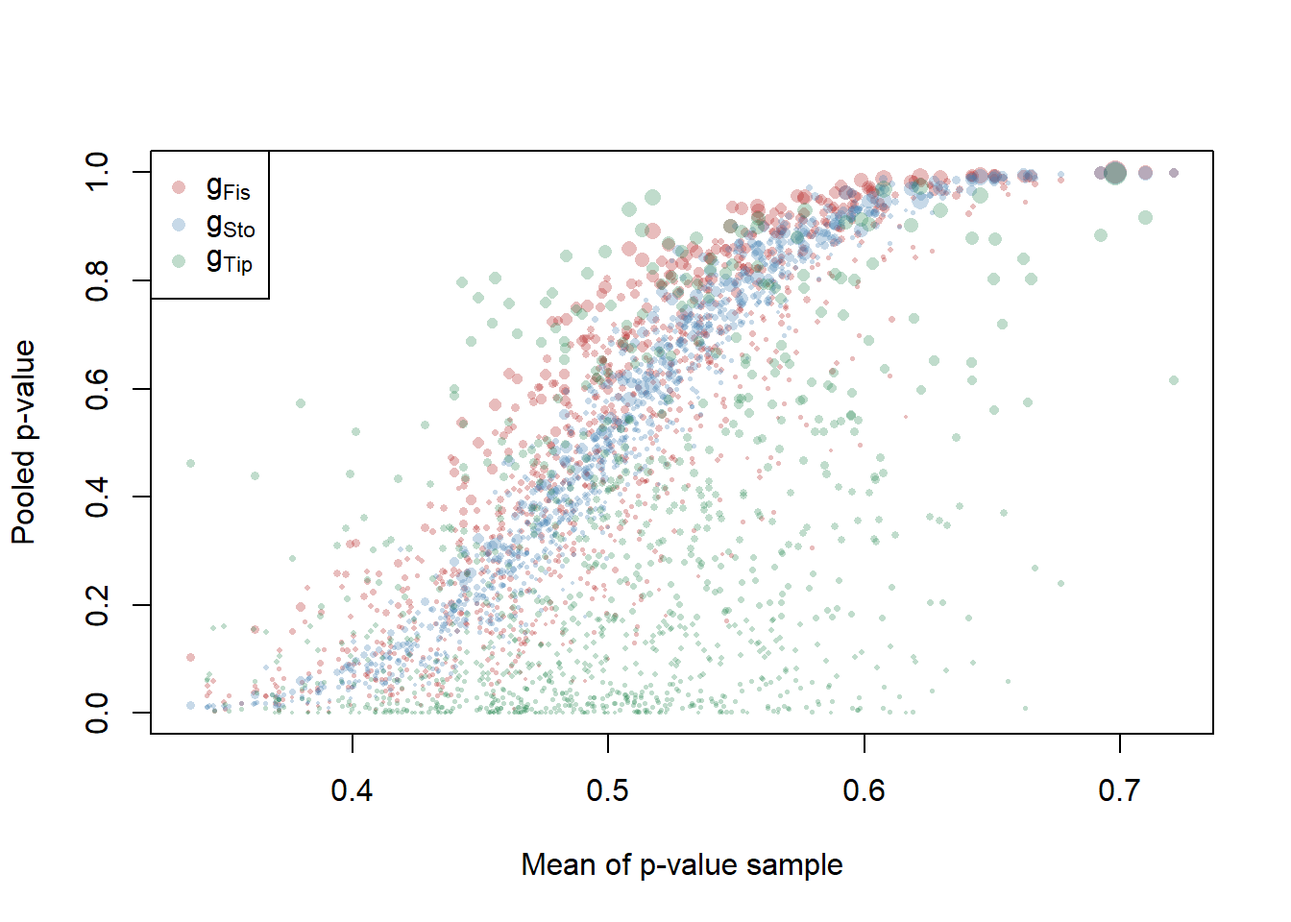
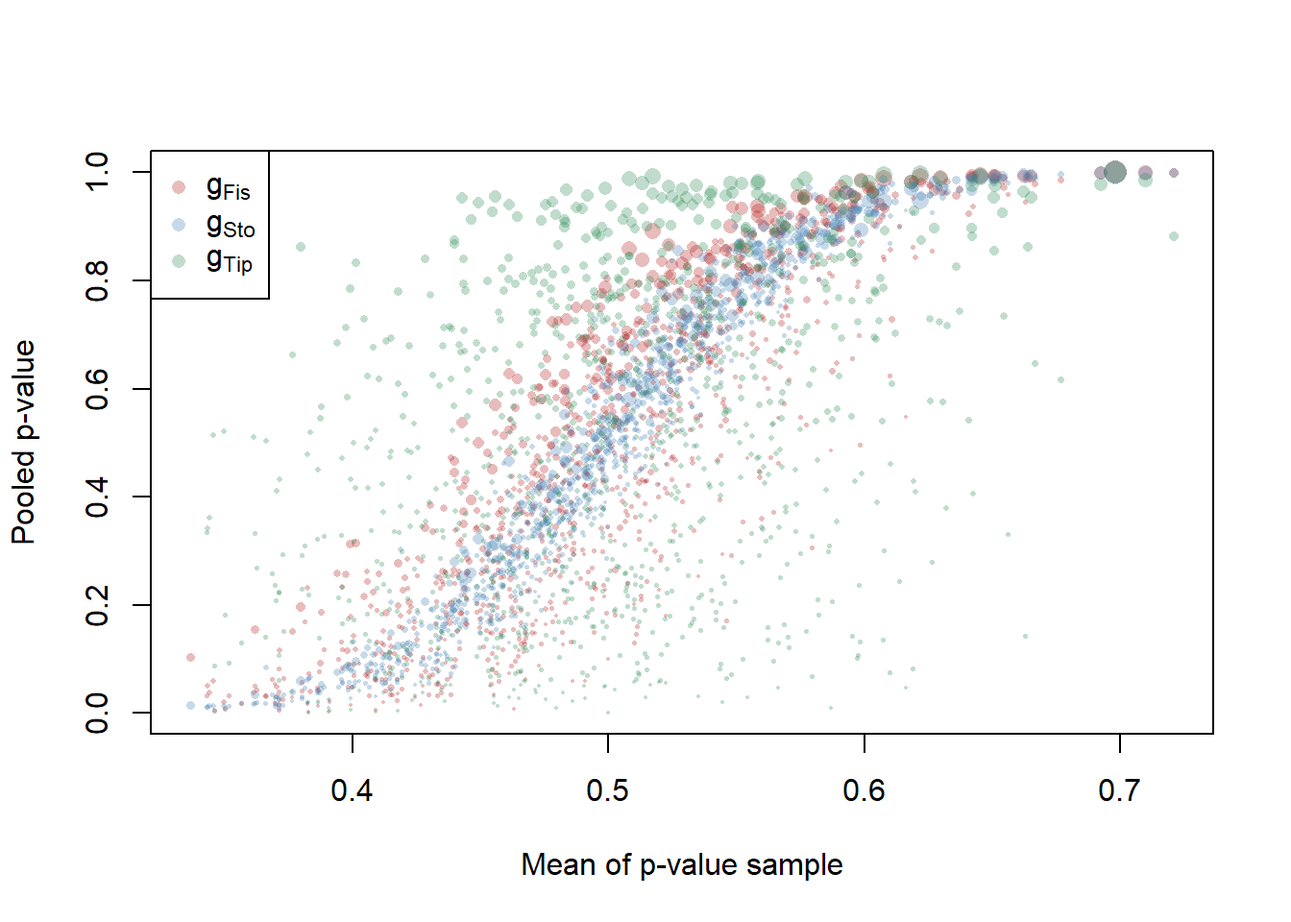
Edits expanding last sections

diff --git a/docs/pooled-p-values.html b/docs/pooled-p-values.html
@@ -523,7 +523,7 @@ will both behave exactly like a univariate <span class="math inline">\(p\)</span
 <div class="sourceCode" id="cb14"><pre class="sourceCode r"><code class="sourceCode r"><span id="cb14-1"><a href="pooled-p-values.html#cb14-1" aria-hidden="true" tabindex="-1"></a><span class="do">## the order statistic function</span></span>
 <span id="cb14-2"><a href="pooled-p-values.html#cb14-2" aria-hidden="true" tabindex="-1"></a>gord <span class="ot">&lt;-</span> <span class="cf">function</span>(p, k) {</span>
 <span id="cb14-3"><a href="pooled-p-values.html#cb14-3" aria-hidden="true" tabindex="-1"></a>    pk <span class="ot">&lt;-</span> <span class="fu">sort</span>(p, <span class="at">decreasing =</span> <span class="cn">FALSE</span>)[k]  <span class="co"># kth order statistic</span></span>
-<span id="cb14-4"><a href="pooled-p-values.html#cb14-4" aria-hidden="true" tabindex="-1"></a>    <span class="dv">1</span> <span class="sc">-</span> <span class="fu">pbinom</span>(k, <span class="fu">length</span>(p), pk)</span>
+<span id="cb14-4"><a href="pooled-p-values.html#cb14-4" aria-hidden="true" tabindex="-1"></a>    <span class="dv">1</span> <span class="sc">-</span> <span class="fu">pbinom</span>(k <span class="sc">-</span> <span class="dv">1</span>, <span class="fu">length</span>(p), pk)</span>
 <span id="cb14-5"><a href="pooled-p-values.html#cb14-5" aria-hidden="true" tabindex="-1"></a>}</span>
 <span id="cb14-6"><a href="pooled-p-values.html#cb14-6" aria-hidden="true" tabindex="-1"></a></span>
 <span id="cb14-7"><a href="pooled-p-values.html#cb14-7" aria-hidden="true" tabindex="-1"></a><span class="do">## the quantile transformation function</span></span>
@@ -551,7 +551,7 @@ will both behave exactly like a univariate <span class="math inline">\(p\)</span
 ## [1] 0</code></pre>
 <div class="sourceCode" id="cb17"><pre class="sourceCode r"><code class="sourceCode r"><span id="cb17-1"><a href="pooled-p-values.html#cb17-1" aria-hidden="true" tabindex="-1"></a>(poolNonMend <span class="ot">&lt;-</span> <span class="fu">lapply</span>(pools, <span class="cf">function</span>(f) <span class="fu">f</span>(pnonMendel)))</span></code></pre></div>
 <pre><code>## $tippett
-## [1] 0.2025844
+## [1] 0.5739556
 ## 
 ## $fisher
 ## [1] 0.01703636
@@ -604,41 +604,205 @@ will both behave exactly like a univariate <span class="math inline">\(p\)</span
 </div>
 <div id="adjusting-for-dependence" class="section level2 hasAnchor" number="8.3">
 <h2><span class="header-section-number">8.3</span> Adjusting for dependence<a href="pooled-p-values.html#adjusting-for-dependence" class="anchor-section" aria-label="Anchor link to header"></a></h2>
-<p>A comprehensive overview of the methods used to adjust for dependence can be found in the companion paper to the <code>poolr</code> package, <span class="citation">Cinar and Viechtbauer (2022)</span>. It should come as no surprise that the above functions have been implemented in this package alongside the adjustments. So, instead of using the functions we wrote above, we can write</p>
+<p>A comprehensive overview of the methods used to adjust for dependence can be found in the companion paper to the <code>poolr</code> package, <span class="citation">Cinar and Viechtbauer (2022)</span>. It should come as no surprise that the above functions have been implemented in this package alongside the adjustments. We’ll take a brief aside to familiarize ourselves with them. Instead of using the functions we defined previously, we can take</p>
 <div class="sourceCode" id="cb23"><pre class="sourceCode r"><code class="sourceCode r"><span id="cb23-1"><a href="pooled-p-values.html#cb23-1" aria-hidden="true" tabindex="-1"></a><span class="fu">library</span>(poolr)</span>
 <span id="cb23-2"><a href="pooled-p-values.html#cb23-2" aria-hidden="true" tabindex="-1"></a><span class="do">## the naming is more convenient than ours</span></span>
-<span id="cb23-3"><a href="pooled-p-values.html#cb23-3" aria-hidden="true" tabindex="-1"></a><span class="fu">cat</span>(<span class="st">&quot;Mendelian p-values</span><span class="sc">\n\n</span><span class="st">&quot;</span>)</span></code></pre></div>
-<pre><code>## Mendelian p-values</code></pre>
-<div class="sourceCode" id="cb25"><pre class="sourceCode r"><code class="sourceCode r"><span id="cb25-1"><a href="pooled-p-values.html#cb25-1" aria-hidden="true" tabindex="-1"></a><span class="fu">fisher</span>(pMendel, <span class="at">adjust =</span> <span class="st">&quot;none&quot;</span>)</span></code></pre></div>
+<span id="cb23-3"><a href="pooled-p-values.html#cb23-3" aria-hidden="true" tabindex="-1"></a>(pfMend <span class="ot">&lt;-</span> <span class="fu">fisher</span>(pMendel, <span class="at">adjust =</span> <span class="st">&quot;none&quot;</span>))</span></code></pre></div>
 <pre><code>## combined p-values with:      Fisher&#39;s method
 ## number of p-values combined: 20 
 ## test statistic:              161.118 ~ chi-square(df = 40) 
 ## adjustment:                  none 
 ## combined p-value:            1.817574e-16</code></pre>
-<div class="sourceCode" id="cb27"><pre class="sourceCode r"><code class="sourceCode r"><span id="cb27-1"><a href="pooled-p-values.html#cb27-1" aria-hidden="true" tabindex="-1"></a><span class="fu">cat</span>(<span class="st">&quot;-------</span><span class="sc">\n</span><span class="st">&quot;</span>)</span></code></pre></div>
-<pre><code>## -------</code></pre>
-<div class="sourceCode" id="cb29"><pre class="sourceCode r"><code class="sourceCode r"><span id="cb29-1"><a href="pooled-p-values.html#cb29-1" aria-hidden="true" tabindex="-1"></a><span class="fu">stouffer</span>(pMendel, <span class="at">adjust =</span> <span class="st">&quot;none&quot;</span>)</span></code></pre></div>
+<div class="sourceCode" id="cb25"><pre class="sourceCode r"><code class="sourceCode r"><span id="cb25-1"><a href="pooled-p-values.html#cb25-1" aria-hidden="true" tabindex="-1"></a>(psMend <span class="ot">&lt;-</span> <span class="fu">stouffer</span>(pMendel, <span class="at">adjust =</span> <span class="st">&quot;none&quot;</span>))  <span class="co"># more accurate for small p-values</span></span></code></pre></div>
 <pre><code>## combined p-values with:      Stouffer&#39;s method
 ## number of p-values combined: 20 
 ## test statistic:              2.894 ~ N(0,1) 
 ## adjustment:                  none 
 ## combined p-value:            0.00190034</code></pre>
-<div class="sourceCode" id="cb31"><pre class="sourceCode r"><code class="sourceCode r"><span id="cb31-1"><a href="pooled-p-values.html#cb31-1" aria-hidden="true" tabindex="-1"></a><span class="fu">cat</span>(<span class="st">&quot;-------</span><span class="sc">\n</span><span class="st">&quot;</span>)</span></code></pre></div>
-<pre><code>## -------</code></pre>
-<div class="sourceCode" id="cb33"><pre class="sourceCode r"><code class="sourceCode r"><span id="cb33-1"><a href="pooled-p-values.html#cb33-1" aria-hidden="true" tabindex="-1"></a><span class="fu">tippett</span>(pMendel, <span class="at">adjust =</span> <span class="st">&quot;none&quot;</span>)  <span class="co"># more accurate for small p-values</span></span></code></pre></div>
+<div class="sourceCode" id="cb27"><pre class="sourceCode r"><code class="sourceCode r"><span id="cb27-1"><a href="pooled-p-values.html#cb27-1" aria-hidden="true" tabindex="-1"></a>(ptMend <span class="ot">&lt;-</span> <span class="fu">tippett</span>(pMendel, <span class="at">adjust =</span> <span class="st">&quot;none&quot;</span>))</span></code></pre></div>
 <pre><code>## combined p-values with:      Tippett&#39;s method
 ## number of p-values combined: 20 
 ## minimum p-value:             0 
 ## adjustment:                  none 
 ## combined p-value:            0</code></pre>
-<p>We might immediately notice that this is more accurate for the small <span class="math inline">\(p\)</span>-value occurring in the Mendelian example. This is a direct result of the way <code>gquant</code> is defined, we can achieve the same result as <code>poolr</code> by using the <code>lower.tail</code> argument rather than subtracting values from 1. Computational statistics is not quite the same as mathematical statistics!</p>
-<div class="sourceCode" id="cb35"><pre class="sourceCode r"><code class="sourceCode r"><span id="cb35-1"><a href="pooled-p-values.html#cb35-1" aria-hidden="true" tabindex="-1"></a><span class="fu">pnorm</span>(<span class="fu">sum</span>(<span class="fu">qnorm</span>(pMendel, <span class="at">lower.tail =</span> <span class="cn">FALSE</span>)), <span class="at">sd =</span> <span class="fu">sqrt</span>(<span class="dv">20</span>), <span class="at">lower.tail =</span> <span class="cn">FALSE</span>)</span></code></pre></div>
+<div class="sourceCode" id="cb29"><pre class="sourceCode r"><code class="sourceCode r"><span id="cb29-1"><a href="pooled-p-values.html#cb29-1" aria-hidden="true" tabindex="-1"></a><span class="do">## non-Mendelian case</span></span>
+<span id="cb29-2"><a href="pooled-p-values.html#cb29-2" aria-hidden="true" tabindex="-1"></a>(pfNM <span class="ot">&lt;-</span> <span class="fu">fisher</span>(pnonMendel, <span class="at">adjust =</span> <span class="st">&quot;none&quot;</span>))</span></code></pre></div>
+<pre><code>## combined p-values with:      Fisher&#39;s method
+## number of p-values combined: 20 
+## test statistic:              61.208 ~ chi-square(df = 40) 
+## adjustment:                  none 
+## combined p-value:            0.01703636</code></pre>
+<div class="sourceCode" id="cb31"><pre class="sourceCode r"><code class="sourceCode r"><span id="cb31-1"><a href="pooled-p-values.html#cb31-1" aria-hidden="true" tabindex="-1"></a>(psNM <span class="ot">&lt;-</span> <span class="fu">stouffer</span>(pnonMendel, <span class="at">adjust =</span> <span class="st">&quot;none&quot;</span>))</span></code></pre></div>
+<pre><code>## combined p-values with:      Stouffer&#39;s method
+## number of p-values combined: 20 
+## test statistic:              2.562 ~ N(0,1) 
+## adjustment:                  none 
+## combined p-value:            0.005196858</code></pre>
+<div class="sourceCode" id="cb33"><pre class="sourceCode r"><code class="sourceCode r"><span id="cb33-1"><a href="pooled-p-values.html#cb33-1" aria-hidden="true" tabindex="-1"></a>(ptNM <span class="ot">&lt;-</span> <span class="fu">tippett</span>(pnonMendel, <span class="at">adjust =</span> <span class="st">&quot;none&quot;</span>))</span></code></pre></div>
+<pre><code>## combined p-values with:      Tippett&#39;s method
+## number of p-values combined: 20 
+## minimum p-value:             0.042 
+## adjustment:                  none 
+## combined p-value:            0.5739556</code></pre>
+<p>We might immediately notice that this is more accurate for the small <span class="math inline">\(p\)</span>-value occurring in the Mendelian example and has some slightly different values for the non-Mendelian example. This is a direct result of the way <code>gquant</code> is defined, we can achieve the same result as <code>poolr</code> by using the <code>lower.tail</code> argument rather than subtracting values from 1. Computational statistics is not quite the same as mathematical statistics (making all of our lives harder).</p>
+<div class="sourceCode" id="cb35"><pre class="sourceCode r"><code class="sourceCode r"><span id="cb35-1"><a href="pooled-p-values.html#cb35-1" aria-hidden="true" tabindex="-1"></a><span class="do">## our function gave a zero for gsto and the mendelian data, can we</span></span>
+<span id="cb35-2"><a href="pooled-p-values.html#cb35-2" aria-hidden="true" tabindex="-1"></a><span class="do">## recreate poolr&#39;s 0.0019?</span></span>
+<span id="cb35-3"><a href="pooled-p-values.html#cb35-3" aria-hidden="true" tabindex="-1"></a><span class="fu">pnorm</span>(<span class="fu">sum</span>(<span class="fu">qnorm</span>(pMendel, <span class="at">lower.tail =</span> <span class="cn">FALSE</span>))<span class="sc">/</span><span class="fu">sqrt</span>(<span class="dv">20</span>), <span class="at">lower.tail =</span> <span class="cn">FALSE</span>)</span></code></pre></div>
 <pre><code>## [1] 0.00190034</code></pre>
+<p>In any case, the ordering with these more accurate <span class="math inline">\(p\)</span>-values mirrors the non-Mendelian case. When evidence is concentrated in one test <span class="math inline">\(g_{Tip} &lt; g_{Fis} &lt; g_{Sto}\)</span> while when evidence is spread <span class="math inline">\(g_{Tip} &gt; g_{Fis} &gt; g_{Sto}\)</span>.</p>
+<p>With that very brief exploration out of the way, we can define some correlated data using our filtered panel from before. Let’s take a random sample of markers on chromosome 1.</p>
+<div class="sourceCode" id="cb37"><pre class="sourceCode r"><code class="sourceCode r"><span id="cb37-1"><a href="pooled-p-values.html#cb37-1" aria-hidden="true" tabindex="-1"></a><span class="fu">set.seed</span>(<span class="dv">124093</span>)</span>
+<span id="cb37-2"><a href="pooled-p-values.html#cb37-2" aria-hidden="true" tabindex="-1"></a>inds <span class="ot">&lt;-</span> <span class="fu">sort</span>(<span class="fu">sample</span>(<span class="fu">which</span>(mgiFiltered<span class="sc">$</span>markers<span class="sc">$</span>chr <span class="sc">==</span> <span class="st">&quot;1&quot;</span>), <span class="dv">20</span>))</span>
+<span id="cb37-3"><a href="pooled-p-values.html#cb37-3" aria-hidden="true" tabindex="-1"></a>mgiDep <span class="ot">&lt;-</span> mgiFiltered<span class="sc">$</span>data[, inds]  <span class="co"># select sampled inds</span></span>
+<span id="cb37-4"><a href="pooled-p-values.html#cb37-4" aria-hidden="true" tabindex="-1"></a>mgiDepCors <span class="ot">&lt;-</span> <span class="fu">cor</span>(mgiDep)  <span class="co"># important for later</span></span>
+<span id="cb37-5"><a href="pooled-p-values.html#cb37-5" aria-hidden="true" tabindex="-1"></a></span>
+<span id="cb37-6"><a href="pooled-p-values.html#cb37-6" aria-hidden="true" tabindex="-1"></a><span class="do">## image correlations between these</span></span>
+<span id="cb37-7"><a href="pooled-p-values.html#cb37-7" aria-hidden="true" tabindex="-1"></a><span class="fu">image</span>(mgiDepCors)</span></code></pre></div>
+<p><img src="bookdownproj_files/figure-html/unnamed-chunk-13-1.png" width="672" /></p>
 <div id="the-wrong-way" class="section level3 hasAnchor" number="8.3.1">
 <h3><span class="header-section-number">8.3.1</span> The wrong way<a href="pooled-p-values.html#the-wrong-way" class="anchor-section" aria-label="Anchor link to header"></a></h3>
+<p>If we check the first few lines of code for any of the <code>poolr</code> pooling functions, take <code>fisher</code>, we’ll see several options for adjustment:</p>
+<div class="sourceCode" id="cb38"><pre class="sourceCode r"><code class="sourceCode r"><span id="cb38-1"><a href="pooled-p-values.html#cb38-1" aria-hidden="true" tabindex="-1"></a><span class="fu">head</span>(fisher, <span class="dv">7</span>)</span></code></pre></div>
+<pre><code>##                                                                      
+## 1 function (p, adjust = &quot;none&quot;, R, m, size = 10000, threshold,       
+## 2     side = 2, batchsize, nearpd = TRUE, ...)                       
+## 3 {                                                                  
+## 4     p &lt;- .check.p(p)                                               
+## 5     k &lt;- length(p)                                                 
+## 6     adjust &lt;- match.arg(adjust, c(&quot;none&quot;, &quot;nyholt&quot;, &quot;liji&quot;, &quot;gao&quot;, 
+## 7         &quot;galwey&quot;, &quot;empirical&quot;, &quot;generalized&quot;))</code></pre>
+<p>The first four of these after “none” are all based on the concept of <em>effective number of tests</em>. Basically, these compute the eigenvalues of the correlation matrix between the tests used to generate <span class="math inline">\(\mathbf{p}\)</span> and use some function of these eigenvalues to estimate an effective number of independent tests. Much like in principal components analysis (PCA), this assumes that most of the information in <span class="math inline">\(M\)</span> <span class="math inline">\(p\)</span>-values can be summarized by a smaller number of tests, <span class="math inline">\(m\)</span>. Unlike PCA, however, these methods do not select the important tests, rather they just take the entirely ad-hoc
+<span class="math display">\[g_{adj}(\mathbf{p}) = 1 - F_M \left ( \frac{m}{M} \sum_{i = 1}^M F^{-1}(1 - p_i) \right )\]</span>
+instead of
+<span class="math display">\[g_{adj}(\mathbf{p}) = 1 - F_M \left ( \sum_{i = 1}^M F^{-1}(1 - p_i) \right ).\]</span> Let’s explore the result.</p>
+<div class="sourceCode" id="cb40"><pre class="sourceCode r"><code class="sourceCode r"><span id="cb40-1"><a href="pooled-p-values.html#cb40-1" aria-hidden="true" tabindex="-1"></a><span class="do">## start by generating traits as before</span></span>
+<span id="cb40-2"><a href="pooled-p-values.html#cb40-2" aria-hidden="true" tabindex="-1"></a><span class="fu">set.seed</span>(<span class="dv">2314</span>)</span>
+<span id="cb40-3"><a href="pooled-p-values.html#cb40-3" aria-hidden="true" tabindex="-1"></a>depMendel <span class="ot">&lt;-</span> mgiDep[, <span class="dv">1</span>] <span class="sc">+</span> <span class="fu">rnorm</span>(<span class="dv">94</span>, <span class="at">sd =</span> <span class="fl">0.3</span>)</span>
+<span id="cb40-4"><a href="pooled-p-values.html#cb40-4" aria-hidden="true" tabindex="-1"></a><span class="fu">plot</span>(<span class="fu">density</span>(depMendel))</span></code></pre></div>
+<p><img src="bookdownproj_files/figure-html/unnamed-chunk-15-1.png" width="672" /></p>
+<div class="sourceCode" id="cb41"><pre class="sourceCode r"><code class="sourceCode r"><span id="cb41-1"><a href="pooled-p-values.html#cb41-1" aria-hidden="true" tabindex="-1"></a>depNonMend <span class="ot">&lt;-</span> <span class="fu">apply</span>(mgiDep[, <span class="dv">1</span><span class="sc">:</span><span class="dv">20</span>], <span class="dv">1</span>, mean) <span class="sc">+</span> <span class="fu">rnorm</span>(<span class="dv">94</span>, <span class="at">sd =</span> <span class="fl">0.3</span>)</span>
+<span id="cb41-2"><a href="pooled-p-values.html#cb41-2" aria-hidden="true" tabindex="-1"></a><span class="fu">plot</span>(<span class="fu">density</span>(depNonMend))</span></code></pre></div>
+<p><img src="bookdownproj_files/figure-html/unnamed-chunk-15-2.png" width="672" /></p>
+<div class="sourceCode" id="cb42"><pre class="sourceCode r"><code class="sourceCode r"><span id="cb42-1"><a href="pooled-p-values.html#cb42-1" aria-hidden="true" tabindex="-1"></a><span class="do">## these look basically the same as before, despite the correlations</span></span>
+<span id="cb42-2"><a href="pooled-p-values.html#cb42-2" aria-hidden="true" tabindex="-1"></a><span class="do">## what about the p-values?</span></span>
+<span id="cb42-3"><a href="pooled-p-values.html#cb42-3" aria-hidden="true" tabindex="-1"></a>(pMendelDep <span class="ot">&lt;-</span> <span class="fu">apply</span>(mgiDep, <span class="dv">2</span>, <span class="cf">function</span>(col) <span class="fu">cor.test</span>(depMendel, col)<span class="sc">$</span>p.value))</span></code></pre></div>
+<pre><code>##     D1Mit475     D1Mit412     D1Mit245     D1Mit248     D1Mit214     D1Mit303 
+## 8.140813e-28 1.429891e-08 1.429891e-08 1.340364e-06 3.717356e-03 6.113978e-03 
+##     D1Mit480     D1Mit325     D1Mit180      D1Mit81     D1Mit305     D1Mit188 
+## 6.113978e-03 2.076697e-02 9.091619e-01 4.944939e-01 3.151411e-01 1.821606e-01 
+##     D1Mit218        Cxcr4     D1Mit445     D1Mit346         Fmn2     D1Mit404 
+## 1.681507e-01 4.848012e-01 2.527444e-01 3.308191e-01 3.921758e-01 6.029271e-01 
+##     D1Mit273      D1Mit37 
+## 4.992006e-01 5.305738e-01</code></pre>
+<div class="sourceCode" id="cb44"><pre class="sourceCode r"><code class="sourceCode r"><span id="cb44-1"><a href="pooled-p-values.html#cb44-1" aria-hidden="true" tabindex="-1"></a><span class="do">## based on the non-mendelian trait</span></span>
+<span id="cb44-2"><a href="pooled-p-values.html#cb44-2" aria-hidden="true" tabindex="-1"></a>(pNonMenDep <span class="ot">&lt;-</span> <span class="fu">apply</span>(mgiDep, <span class="dv">2</span>, <span class="cf">function</span>(col) <span class="fu">cor.test</span>(depNonMend, col)<span class="sc">$</span>p.value))</span></code></pre></div>
+<pre><code>##     D1Mit475     D1Mit412     D1Mit245     D1Mit248     D1Mit214     D1Mit303 
+## 7.098574e-02 4.859396e-05 4.859396e-05 3.599978e-05 1.312435e-07 1.308804e-07 
+##     D1Mit480     D1Mit325     D1Mit180      D1Mit81     D1Mit305     D1Mit188 
+## 1.308804e-07 3.882606e-08 1.643775e-10 4.334330e-10 6.486238e-10 4.387799e-10 
+##     D1Mit218        Cxcr4     D1Mit445     D1Mit346         Fmn2     D1Mit404 
+## 1.551436e-09 1.711769e-08 4.041306e-11 6.675577e-10 3.787253e-06 1.401357e-06 
+##     D1Mit273      D1Mit37 
+## 8.044158e-06 4.581290e-05</code></pre>
+<p>Dependence between the tests pulls the <span class="math inline">\(p\)</span>-values down universally. While in the previous case only a handful of tests would lead to rejection at the canonical <span class="math inline">\(\alpha = 0.05\)</span>, almost every test is rejected in both cases here. If we did not account for this known correlation, our pooled <span class="math inline">\(p\)</span>-values will be universally smaller as a result and we will reject <span class="math inline">\(H_0\)</span> far more often than we should. Do the adjustments make a difference?</p>
+<div class="sourceCode" id="cb46"><pre class="sourceCode r"><code class="sourceCode r"><span id="cb46-1"><a href="pooled-p-values.html#cb46-1" aria-hidden="true" tabindex="-1"></a><span class="do">## trying all effective test adjustments on both data sets</span></span>
+<span id="cb46-2"><a href="pooled-p-values.html#cb46-2" aria-hidden="true" tabindex="-1"></a>adjustments <span class="ot">&lt;-</span> <span class="fu">c</span>(<span class="at">none =</span> <span class="st">&quot;none&quot;</span>, <span class="at">nyholt =</span> <span class="st">&quot;nyholt&quot;</span>, <span class="at">liji =</span> <span class="st">&quot;liji&quot;</span>, <span class="at">gao =</span> <span class="st">&quot;gao&quot;</span>,</span>
+<span id="cb46-3"><a href="pooled-p-values.html#cb46-3" aria-hidden="true" tabindex="-1"></a>    <span class="at">galwey =</span> <span class="st">&quot;galwey&quot;</span>)</span>
+<span id="cb46-4"><a href="pooled-p-values.html#cb46-4" aria-hidden="true" tabindex="-1"></a></span>
+<span id="cb46-5"><a href="pooled-p-values.html#cb46-5" aria-hidden="true" tabindex="-1"></a><span class="do">## having to suppress warnings is always a good sign...</span></span>
+<span id="cb46-6"><a href="pooled-p-values.html#cb46-6" aria-hidden="true" tabindex="-1"></a><span class="fu">suppressWarnings</span>(adjMenFis <span class="ot">&lt;-</span> <span class="fu">sapply</span>(adjustments, <span class="cf">function</span>(a) <span class="fu">fisher</span>(<span class="at">p =</span> pMendelDep,</span>
+<span id="cb46-7"><a href="pooled-p-values.html#cb46-7" aria-hidden="true" tabindex="-1"></a>    <span class="at">adjust =</span> a, <span class="at">R =</span> mgiDepCors)))</span>
+<span id="cb46-8"><a href="pooled-p-values.html#cb46-8" aria-hidden="true" tabindex="-1"></a><span class="fu">suppressWarnings</span>(adjMenTip <span class="ot">&lt;-</span> <span class="fu">sapply</span>(adjustments, <span class="cf">function</span>(a) <span class="fu">tippett</span>(<span class="at">p =</span> pMendelDep,</span>
+<span id="cb46-9"><a href="pooled-p-values.html#cb46-9" aria-hidden="true" tabindex="-1"></a>    <span class="at">adjust =</span> a, <span class="at">R =</span> mgiDepCors)))</span>
+<span id="cb46-10"><a href="pooled-p-values.html#cb46-10" aria-hidden="true" tabindex="-1"></a><span class="fu">suppressWarnings</span>(adjMenSto <span class="ot">&lt;-</span> <span class="fu">sapply</span>(adjustments, <span class="cf">function</span>(a) <span class="fu">stouffer</span>(<span class="at">p =</span> pMendelDep,</span>
+<span id="cb46-11"><a href="pooled-p-values.html#cb46-11" aria-hidden="true" tabindex="-1"></a>    <span class="at">adjust =</span> a, <span class="at">R =</span> mgiDepCors)))</span>
+<span id="cb46-12"><a href="pooled-p-values.html#cb46-12" aria-hidden="true" tabindex="-1"></a></span>
+<span id="cb46-13"><a href="pooled-p-values.html#cb46-13" aria-hidden="true" tabindex="-1"></a><span class="do">## compare p-values between methods</span></span>
+<span id="cb46-14"><a href="pooled-p-values.html#cb46-14" aria-hidden="true" tabindex="-1"></a><span class="fu">rbind</span>(<span class="at">Tippett =</span> adjMenTip[<span class="st">&quot;p&quot;</span>, ], <span class="at">Fisher =</span> adjMenFis[<span class="st">&quot;p&quot;</span>, ], <span class="at">Stouffer =</span> adjMenSto[<span class="st">&quot;p&quot;</span>,</span>
+<span id="cb46-15"><a href="pooled-p-values.html#cb46-15" aria-hidden="true" tabindex="-1"></a>    ])</span></code></pre></div>
+<pre><code>##          none         nyholt       liji         gao          galwey      
+## Tippett  0            0            0            0            0           
+## Fisher   6.087399e-39 5.897589e-28 4.394485e-15 5.897589e-28 4.394485e-15
+## Stouffer 3.720353e-18 2.969156e-13 1.766807e-07 2.969156e-13 1.766807e-07</code></pre>
+<div class="sourceCode" id="cb48"><pre class="sourceCode r"><code class="sourceCode r"><span id="cb48-1"><a href="pooled-p-values.html#cb48-1" aria-hidden="true" tabindex="-1"></a><span class="do">## and &#39;effective number of tests&#39;</span></span>
+<span id="cb48-2"><a href="pooled-p-values.html#cb48-2" aria-hidden="true" tabindex="-1"></a><span class="fu">rbind</span>(<span class="at">Tippett =</span> adjMenTip[<span class="st">&quot;m&quot;</span>, ], <span class="at">Fisher =</span> adjMenFis[<span class="st">&quot;m&quot;</span>, ], <span class="at">Stouffer =</span> adjMenSto[<span class="st">&quot;m&quot;</span>,</span>
+<span id="cb48-3"><a href="pooled-p-values.html#cb48-3" aria-hidden="true" tabindex="-1"></a>    ])</span></code></pre></div>
+<pre><code>##          none nyholt liji gao galwey
+## Tippett  NULL 14     7    14  7     
+## Fisher   NULL 14     7    14  7     
+## Stouffer NULL 14     7    14  7</code></pre>
+<p>These adjustments definitely help reduce our problem, every single <span class="math inline">\(p\)</span>-value increased considerably, but they disagree considerably on the effective number of tests. It’s worth noting that the effective number of tests here has nothing to do with our Mendelian generation of traits, it looks at the correlations alone. This makes its interpretation difficult, to say the least. Perhaps the non-Mendelian case will fare better.</p>
+<div class="sourceCode" id="cb50"><pre class="sourceCode r"><code class="sourceCode r"><span id="cb50-1"><a href="pooled-p-values.html#cb50-1" aria-hidden="true" tabindex="-1"></a><span class="fu">suppressWarnings</span>(adjNMFis <span class="ot">&lt;-</span> <span class="fu">sapply</span>(adjustments, <span class="cf">function</span>(a) <span class="fu">fisher</span>(<span class="at">p =</span> pNonMenDep,</span>
+<span id="cb50-2"><a href="pooled-p-values.html#cb50-2" aria-hidden="true" tabindex="-1"></a>    <span class="at">adjust =</span> a, <span class="at">R =</span> mgiDepCors)))</span>
+<span id="cb50-3"><a href="pooled-p-values.html#cb50-3" aria-hidden="true" tabindex="-1"></a><span class="fu">suppressWarnings</span>(adjNMTip <span class="ot">&lt;-</span> <span class="fu">sapply</span>(adjustments, <span class="cf">function</span>(a) <span class="fu">tippett</span>(<span class="at">p =</span> pNonMenDep,</span>
+<span id="cb50-4"><a href="pooled-p-values.html#cb50-4" aria-hidden="true" tabindex="-1"></a>    <span class="at">adjust =</span> a, <span class="at">R =</span> mgiDepCors)))</span>
+<span id="cb50-5"><a href="pooled-p-values.html#cb50-5" aria-hidden="true" tabindex="-1"></a><span class="fu">suppressWarnings</span>(adjNMSto <span class="ot">&lt;-</span> <span class="fu">sapply</span>(adjustments, <span class="cf">function</span>(a) <span class="fu">stouffer</span>(<span class="at">p =</span> pNonMenDep,</span>
+<span id="cb50-6"><a href="pooled-p-values.html#cb50-6" aria-hidden="true" tabindex="-1"></a>    <span class="at">adjust =</span> a, <span class="at">R =</span> mgiDepCors)))</span>
+<span id="cb50-7"><a href="pooled-p-values.html#cb50-7" aria-hidden="true" tabindex="-1"></a></span>
+<span id="cb50-8"><a href="pooled-p-values.html#cb50-8" aria-hidden="true" tabindex="-1"></a></span>
+<span id="cb50-9"><a href="pooled-p-values.html#cb50-9" aria-hidden="true" tabindex="-1"></a><span class="fu">rbind</span>(<span class="at">Tippett =</span> adjNMTip[<span class="st">&quot;p&quot;</span>, ], <span class="at">Fisher =</span> adjNMFis[<span class="st">&quot;p&quot;</span>, ], <span class="at">Stouffer =</span> adjNMSto[<span class="st">&quot;p&quot;</span>,</span>
+<span id="cb50-10"><a href="pooled-p-values.html#cb50-10" aria-hidden="true" tabindex="-1"></a>    ])</span></code></pre></div>
+<pre><code>##          none          nyholt       liji         gao          galwey      
+## Tippett  8.082601e-10  5.657821e-10 2.82891e-10  5.657821e-10 2.82891e-10 
+## Fisher   3.856394e-107 8.31352e-76  3.4097e-39   8.31352e-76  3.4097e-39  
+## Stouffer 3.515608e-111 1.715434e-78 2.692654e-40 1.715434e-78 2.692654e-40</code></pre>
+<div class="sourceCode" id="cb52"><pre class="sourceCode r"><code class="sourceCode r"><span id="cb52-1"><a href="pooled-p-values.html#cb52-1" aria-hidden="true" tabindex="-1"></a><span class="fu">rbind</span>(<span class="at">Tippett =</span> adjNMTip[<span class="st">&quot;m&quot;</span>, ], <span class="at">Fisher =</span> adjNMFis[<span class="st">&quot;m&quot;</span>, ], <span class="at">Stouffer =</span> adjNMSto[<span class="st">&quot;m&quot;</span>,</span>
+<span id="cb52-2"><a href="pooled-p-values.html#cb52-2" aria-hidden="true" tabindex="-1"></a>    ])</span></code></pre></div>
+<pre><code>##          none nyholt liji gao galwey
+## Tippett  NULL 14     7    14  7     
+## Fisher   NULL 14     7    14  7     
+## Stouffer NULL 14     7    14  7</code></pre>
+<p>As the correlation structure is identical, the effective number of tests have not changed at all. However, the much smaller <span class="math inline">\(p\)</span>-values across the board in the non-Mendelian case lead to much smaller pooled <span class="math inline">\(p\)</span>-values, even with adjustment. Using the correlation between markers as a proxy for correlation between tests is somewhat unfair (though it is exactly what the original proposals suggest), but even under more favourable assumptions these adjustments fail.</p>
+<p>Consider, for example, the case where <span class="math inline">\(l\)</span> of the <span class="math inline">\(M\)</span> <span class="math inline">\(p\)</span>-values are identical, or nearly so. If we denote the independent tests with <span class="math inline">\(x_1, \dots, x_{k - l}\)</span> and the dependent tests with <span class="math inline">\(y_1, \dots, y_l\)</span>, we can write</p>
+<p><span class="math display">\[\tilde{X}^2 = \frac{m}{M} X^2 = \frac{m}{M} \left ( \sum_{i = 1}^{M-l} x_i + \sum_{j = 1}^l y_j \right ).\]</span></p>
+<p>Supposing that we correctly identify that <span class="math inline">\(m = M - l + 1\)</span> and letting <span class="math inline">\(y^*\)</span> represent the single unique value taken by <span class="math inline">\(y_1, \dots, y_l\)</span> gives</p>
+<p><span class="math display">\[\frac{M - l + 1}{M} \left ( \sum_{i=1}^{M-l} x_i + l y^* \right ).\]</span></p>
+<p>Now, if <span class="math inline">\(x_i \sim \chi^2_{(2)}\)</span> and <span class="math inline">\(y^* \sim \chi^2_{(2)}\)</span> all independently and identically (We’re using <span class="math inline">\(g_{Fis}\)</span>), this sum is not generally <span class="math inline">\(\chi^2\)</span> distributed. The same is true for the rescaled statistic of Stouffer’s method. Why these theoretically invalid methods with unclear interpretations were included in <code>poolr</code> is unclear, but they probably shouldn’t be used.</p>
 </div>
 <div id="a-better-way" class="section level3 hasAnchor" number="8.3.2">
 <h3><span class="header-section-number">8.3.2</span> A better way<a href="pooled-p-values.html#a-better-way" class="anchor-section" aria-label="Anchor link to header"></a></h3>
+<p>Instead, we’re better off relying on good old-fashioned simulation and normal approximations, as these are both at least asymptotically valid. The <code>"empirical"</code> and <code>"generalized"</code> methods offer these two options, respectively.</p>
+<div class="sourceCode" id="cb54"><pre class="sourceCode r"><code class="sourceCode r"><span id="cb54-1"><a href="pooled-p-values.html#cb54-1" aria-hidden="true" tabindex="-1"></a><span class="do">## the valid adjustment methods</span></span>
+<span id="cb54-2"><a href="pooled-p-values.html#cb54-2" aria-hidden="true" tabindex="-1"></a>adjustments <span class="ot">&lt;-</span> <span class="fu">c</span>(adjustments, <span class="at">empirical =</span> <span class="st">&quot;empirical&quot;</span>, <span class="at">generalized =</span> <span class="st">&quot;generalized&quot;</span>)</span>
+<span id="cb54-3"><a href="pooled-p-values.html#cb54-3" aria-hidden="true" tabindex="-1"></a></span>
+<span id="cb54-4"><a href="pooled-p-values.html#cb54-4" aria-hidden="true" tabindex="-1"></a><span class="do">## compare the resulting p-values</span></span>
+<span id="cb54-5"><a href="pooled-p-values.html#cb54-5" aria-hidden="true" tabindex="-1"></a><span class="fu">suppressWarnings</span>(adjMenFis <span class="ot">&lt;-</span> <span class="fu">sapply</span>(adjustments, <span class="cf">function</span>(a) <span class="fu">fisher</span>(<span class="at">p =</span> pMendelDep,</span>
+<span id="cb54-6"><a href="pooled-p-values.html#cb54-6" aria-hidden="true" tabindex="-1"></a>    <span class="at">adjust =</span> a, <span class="at">R =</span> mgiDepCors)))</span>
+<span id="cb54-7"><a href="pooled-p-values.html#cb54-7" aria-hidden="true" tabindex="-1"></a><span class="fu">suppressWarnings</span>(adjMenTip <span class="ot">&lt;-</span> <span class="fu">sapply</span>(adjustments[<span class="sc">-</span><span class="fu">length</span>(adjustments)],</span>
+<span id="cb54-8"><a href="pooled-p-values.html#cb54-8" aria-hidden="true" tabindex="-1"></a>    <span class="cf">function</span>(a) <span class="fu">tippett</span>(<span class="at">p =</span> pMendelDep, <span class="at">adjust =</span> a, <span class="at">R =</span> mgiDepCors)))</span>
+<span id="cb54-9"><a href="pooled-p-values.html#cb54-9" aria-hidden="true" tabindex="-1"></a><span class="fu">suppressWarnings</span>(adjMenSto <span class="ot">&lt;-</span> <span class="fu">sapply</span>(adjustments, <span class="cf">function</span>(a) <span class="fu">stouffer</span>(<span class="at">p =</span> pMendelDep,</span>
+<span id="cb54-10"><a href="pooled-p-values.html#cb54-10" aria-hidden="true" tabindex="-1"></a>    <span class="at">adjust =</span> a, <span class="at">R =</span> mgiDepCors)))</span>
+<span id="cb54-11"><a href="pooled-p-values.html#cb54-11" aria-hidden="true" tabindex="-1"></a></span>
+<span id="cb54-12"><a href="pooled-p-values.html#cb54-12" aria-hidden="true" tabindex="-1"></a><span class="fu">rbind</span>(<span class="at">Fisher =</span> adjMenFis[<span class="st">&quot;p&quot;</span>, ], <span class="at">Tippett =</span> <span class="fu">c</span>(adjMenTip[<span class="st">&quot;p&quot;</span>, ], <span class="cn">NA</span>), <span class="at">Stouffer =</span> <span class="fu">c</span>(adjMenSto[<span class="st">&quot;p&quot;</span>,</span>
+<span id="cb54-13"><a href="pooled-p-values.html#cb54-13" aria-hidden="true" tabindex="-1"></a>    ]))</span></code></pre></div>
+<pre><code>##          none         nyholt       liji         gao          galwey      
+## Fisher   6.087399e-39 5.897589e-28 4.394485e-15 5.897589e-28 4.394485e-15
+## Tippett  0            0            0            0            0           
+## Stouffer 3.720353e-18 2.969156e-13 1.766807e-07 2.969156e-13 1.766807e-07
+##          empirical  generalized 
+## Fisher   9.999e-05  6.338611e-19
+## Tippett  9.999e-05  NA          
+## Stouffer 0.00089991 0.001863063</code></pre>
+<p>For the Mendelian case, we can see the highly inflated significance is reduced more by the empirical and generalized methods, which produce <span class="math inline">\(p\)</span>-values similar to the independent case. This is a bit deceptive for the empirical version, as it is based on simulation and so can’t report <span class="math inline">\(p\)</span>-values less than <span class="math inline">\(1/n_r\)</span> where <span class="math inline">\(n_r\)</span> is the number of repetitions. For the generalized method, at least, that the <span class="math inline">\(p\)</span>-value for Stouffer is closer to the independent case suggests this combination is accounting for dependence more successfully. As the generation method is identical for the independent and dependent case, we might expect close <span class="math inline">\(p\)</span>-values.</p>
+<div class="sourceCode" id="cb56"><pre class="sourceCode r"><code class="sourceCode r"><span id="cb56-1"><a href="pooled-p-values.html#cb56-1" aria-hidden="true" tabindex="-1"></a><span class="do">## compare the resulting p-values</span></span>
+<span id="cb56-2"><a href="pooled-p-values.html#cb56-2" aria-hidden="true" tabindex="-1"></a><span class="fu">suppressWarnings</span>(adjNMFis <span class="ot">&lt;-</span> <span class="fu">sapply</span>(adjustments, <span class="cf">function</span>(a) <span class="fu">fisher</span>(<span class="at">p =</span> pNonMenDep,</span>
+<span id="cb56-3"><a href="pooled-p-values.html#cb56-3" aria-hidden="true" tabindex="-1"></a>    <span class="at">adjust =</span> a, <span class="at">R =</span> mgiDepCors)))</span>
+<span id="cb56-4"><a href="pooled-p-values.html#cb56-4" aria-hidden="true" tabindex="-1"></a><span class="fu">suppressWarnings</span>(adjNMTip <span class="ot">&lt;-</span> <span class="fu">sapply</span>(adjustments[<span class="sc">-</span><span class="fu">length</span>(adjustments)],</span>
+<span id="cb56-5"><a href="pooled-p-values.html#cb56-5" aria-hidden="true" tabindex="-1"></a>    <span class="cf">function</span>(a) <span class="fu">tippett</span>(<span class="at">p =</span> pNonMenDep, <span class="at">adjust =</span> a, <span class="at">R =</span> mgiDepCors)))</span>
+<span id="cb56-6"><a href="pooled-p-values.html#cb56-6" aria-hidden="true" tabindex="-1"></a><span class="fu">suppressWarnings</span>(adjNMSto <span class="ot">&lt;-</span> <span class="fu">sapply</span>(adjustments, <span class="cf">function</span>(a) <span class="fu">stouffer</span>(<span class="at">p =</span> pNonMenDep,</span>
+<span id="cb56-7"><a href="pooled-p-values.html#cb56-7" aria-hidden="true" tabindex="-1"></a>    <span class="at">adjust =</span> a, <span class="at">R =</span> mgiDepCors)))</span>
+<span id="cb56-8"><a href="pooled-p-values.html#cb56-8" aria-hidden="true" tabindex="-1"></a></span>
+<span id="cb56-9"><a href="pooled-p-values.html#cb56-9" aria-hidden="true" tabindex="-1"></a><span class="fu">rbind</span>(<span class="at">Fisher =</span> adjNMFis[<span class="st">&quot;p&quot;</span>, ], <span class="at">Tippett =</span> <span class="fu">c</span>(adjNMTip[<span class="st">&quot;p&quot;</span>, ], <span class="cn">NA</span>), <span class="at">Stouffer =</span> <span class="fu">c</span>(adjNMSto[<span class="st">&quot;p&quot;</span>,</span>
+<span id="cb56-10"><a href="pooled-p-values.html#cb56-10" aria-hidden="true" tabindex="-1"></a>    ]))</span></code></pre></div>
+<pre><code>##          none          nyholt       liji         gao          galwey      
+## Fisher   3.856394e-107 8.31352e-76  3.4097e-39   8.31352e-76  3.4097e-39  
+## Tippett  8.082601e-10  5.657821e-10 2.82891e-10  5.657821e-10 2.82891e-10 
+## Stouffer 3.515608e-111 1.715434e-78 2.692654e-40 1.715434e-78 2.692654e-40
+##          empirical generalized 
+## Fisher   9.999e-05 4.233807e-50
+## Tippett  9.999e-05 NA          
+## Stouffer 9.999e-05 2.36726e-14</code></pre>
+<p>Of course, the drawback of the empirical method in particular is that is does not capture the tail behaviour of these methods well. The same <span class="math inline">\(p\)</span>-value is repeated for all methods across both the Mendelian and non-Mendelian cases based purely on the number of simulated repetitions performed. Unfortunately, increasing the number of repetitions defeats the purpose of pooled <span class="math inline">\(p\)</span>-values, as it increases the computational burden.</p>
 
 </div>
 </div>
